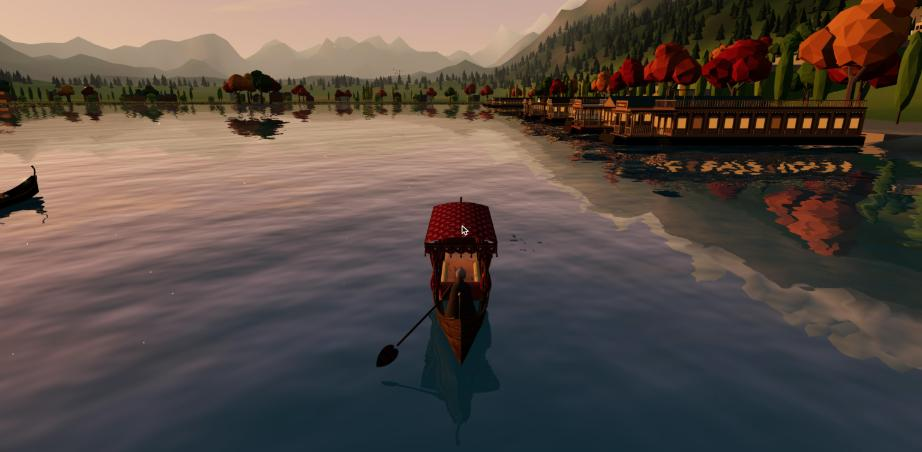
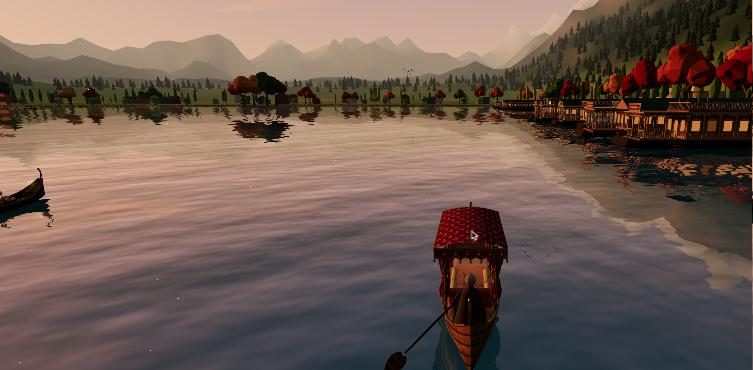
Stage 1: fix dark shikara hull
The hull and deck were wound so their normals faced inward/downward. With
a double-sided material the lighting still flipped correctly, but the
shadow normal-bias pushed lookups inside the hull, so it shadowed itself;
the single-sided deck was culled from above. Rewound both so normals face
outward/up, and scaled wood tints above 1: the CC0 plank photos average
~0.12 linear reflectance, so plain tints multiplied them to near-black.

Final Stage 1 screenshots (chase, side, close-up, garden, mobile) are in
docs/screenshots/stage1.

diff --git a/src/world/shikaraModel.ts b/src/world/shikaraModel.ts
@@ -55,6 +55,18 @@ function pbr(set: PBRSet, color: string, roughness: number, extra: THREE.MeshSta
   });
 }
 
+/**
+ * The CC0 plank photos are dark (average linear reflectance ~0.12 for Dark Planks),
+ * so a plain tint multiplies them down to near-black. Scaling the tint above 1
+ * brings the result to varnished-walnut albedo (~0.18, 0.08, 0.02).
+ */
+const WOOD_GAIN = 2.6;
+
+function gain(m: THREE.MeshStandardMaterial, k: number): THREE.MeshStandardMaterial {
+  m.color.multiplyScalar(k);
+  return m;
+}
+
 export function createShikaraMaterials(lib: TextureLibrary): ShikaraMaterials {
   const hullCache = new Map<string, THREE.MeshStandardMaterial>();
   const fabric = {} as Record<FabricKey, THREE.MeshStandardMaterial>;
@@ -71,12 +83,13 @@ export function createShikaraMaterials(lib: TextureLibrary): ShikaraMaterials {
       let m = hullCache.get(tint);
       if (!m) {
         m = pbr(lib.hullWood, tint, 0.8, { side: THREE.DoubleSide, normalScale: new THREE.Vector2(0.9, 0.9) });
+        m.color.multiplyScalar(WOOD_GAIN);
         hullCache.set(tint, m);
       }
       return m;
     },
-    deck: pbr(lib.deckWood, '#d4a57a', 0.85),
-    trim: pbr(lib.hullWood, '#d9a664', 0.55, { normalScale: new THREE.Vector2(0.6, 0.6) }),
+    deck: gain(pbr(lib.deckWood, '#d4a57a', 0.85), 1.6),
+    trim: gain(pbr(lib.hullWood, '#d9a664', 0.55, { normalScale: new THREE.Vector2(0.6, 0.6) }), 2.4),
     fabric,
     valance,
     cushion,
@@ -85,9 +98,9 @@ export function createShikaraMaterials(lib: TextureLibrary): ShikaraMaterials {
     skin: new THREE.MeshStandardMaterial({ color: '#b07b56', roughness: 0.62 }),
     cap: new THREE.MeshStandardMaterial({ map: lib.wool, color: '#f1ece2', roughness: 0.9 }),
     brass: new THREE.MeshStandardMaterial({ color: '#c89b4a', roughness: 0.35, metalness: 0.85 }),
-    paddle: pbr(lib.deckWood, '#9a6a3e', 0.7),
+    paddle: gain(pbr(lib.deckWood, '#9a6a3e', 0.7), 1.8),
     flowers: new THREE.MeshStandardMaterial({ vertexColors: true, roughness: 0.75 }),
-    wicker: pbr(lib.deckWood, '#c8a26a', 0.9),
+    wicker: gain(pbr(lib.deckWood, '#c8a26a', 0.9), 1.6),
   };
 }
 
@@ -158,7 +171,8 @@ function hullGeometry(L: number, W: number, N: number, M: number): THREE.BufferG
       const b = a + 1;
       const c = a + ring;
       const d = c + 1;
-      idx.push(a, c, b, b, c, d);
+      // Wound so normals face outward: shadow normal-bias must push away from the hull.
+      idx.push(a, b, c, b, d, c);
     }
   }
   const g = new THREE.BufferGeometry();
@@ -193,7 +207,7 @@ function deckGeometry(L: number, W: number, t0: number, t1: number, N: number, i
   for (let i = 0; i < N; i++) {
     for (let j = 0; j < cols; j++) {
       const a = i * (cols + 1) + j;
-      idx.push(a, a + 1, a + cols + 1, a + 1, a + cols + 2, a + cols + 1);
+      idx.push(a, a + cols + 1, a + 1, a + 1, a + cols + 1, a + cols + 2);
     }
   }
   const g = new THREE.BufferGeometry();

diff --git a/src/world/shikara.ts b/src/world/shikara.ts
@@ -16,7 +16,7 @@ export const PLAYER_SPEC: ShikaraSpec = {
   flowers: false,
   seed: 9,
   stations: 72,
-  hullTint: '#d39a64',
+  hullTint: '#c68a55',
 };
 
 export interface SplashEvent {
